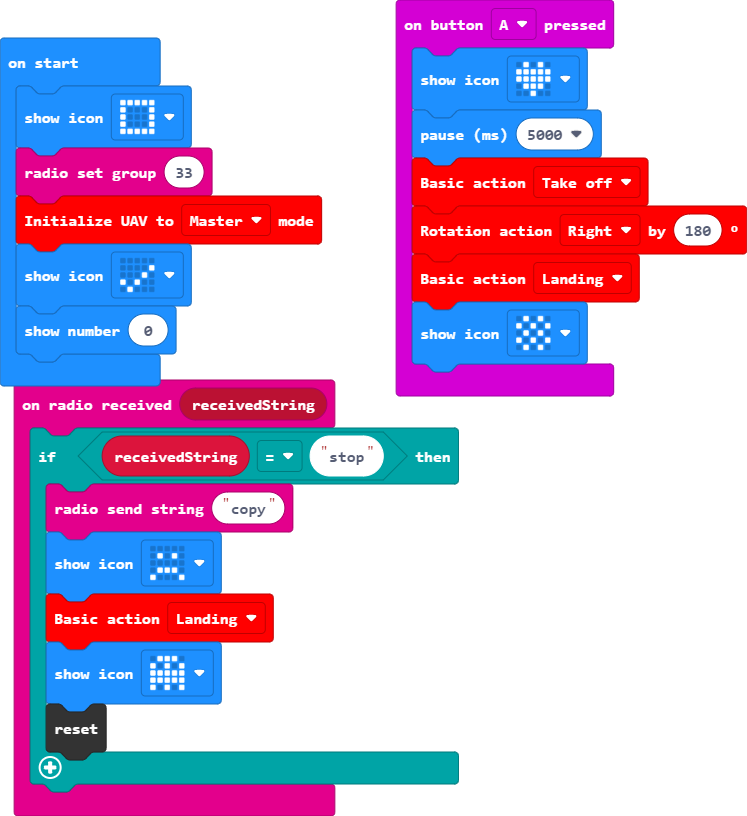
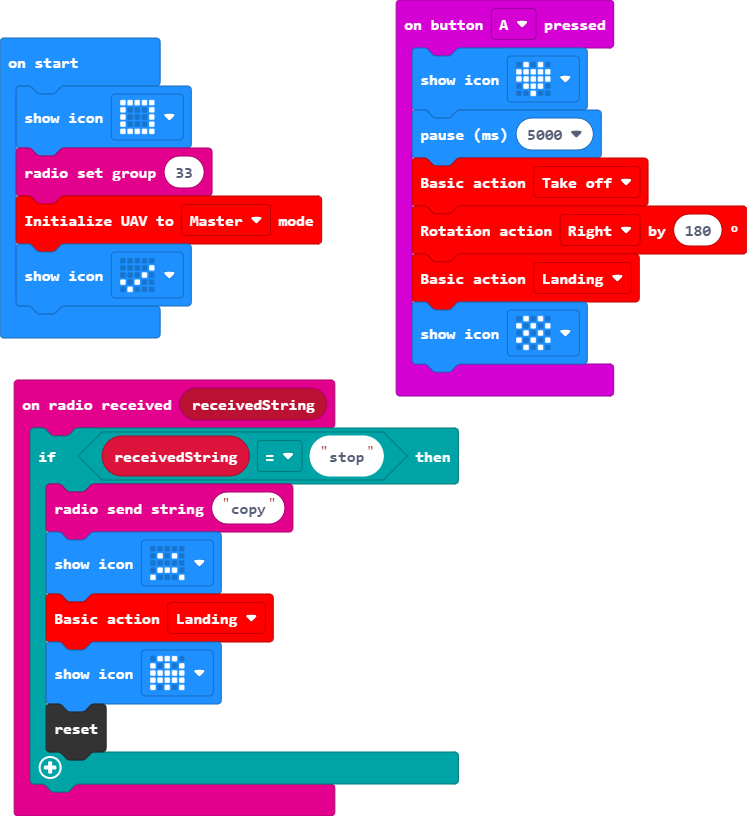
Removed show number, restoring to original

Changed region(s): [[0.0, 0.3676, 0.2463, 0.4902]]

diff --git a/main.ts b/main.ts
@@ -19,4 +19,3 @@ basic.showIcon(IconNames.Square)
 radio.setGroup(33)
 Drones.initModule(Drones.Runmodes.Master)
 basic.showIcon(IconNames.Yes)
-basic.showNumber(0)
